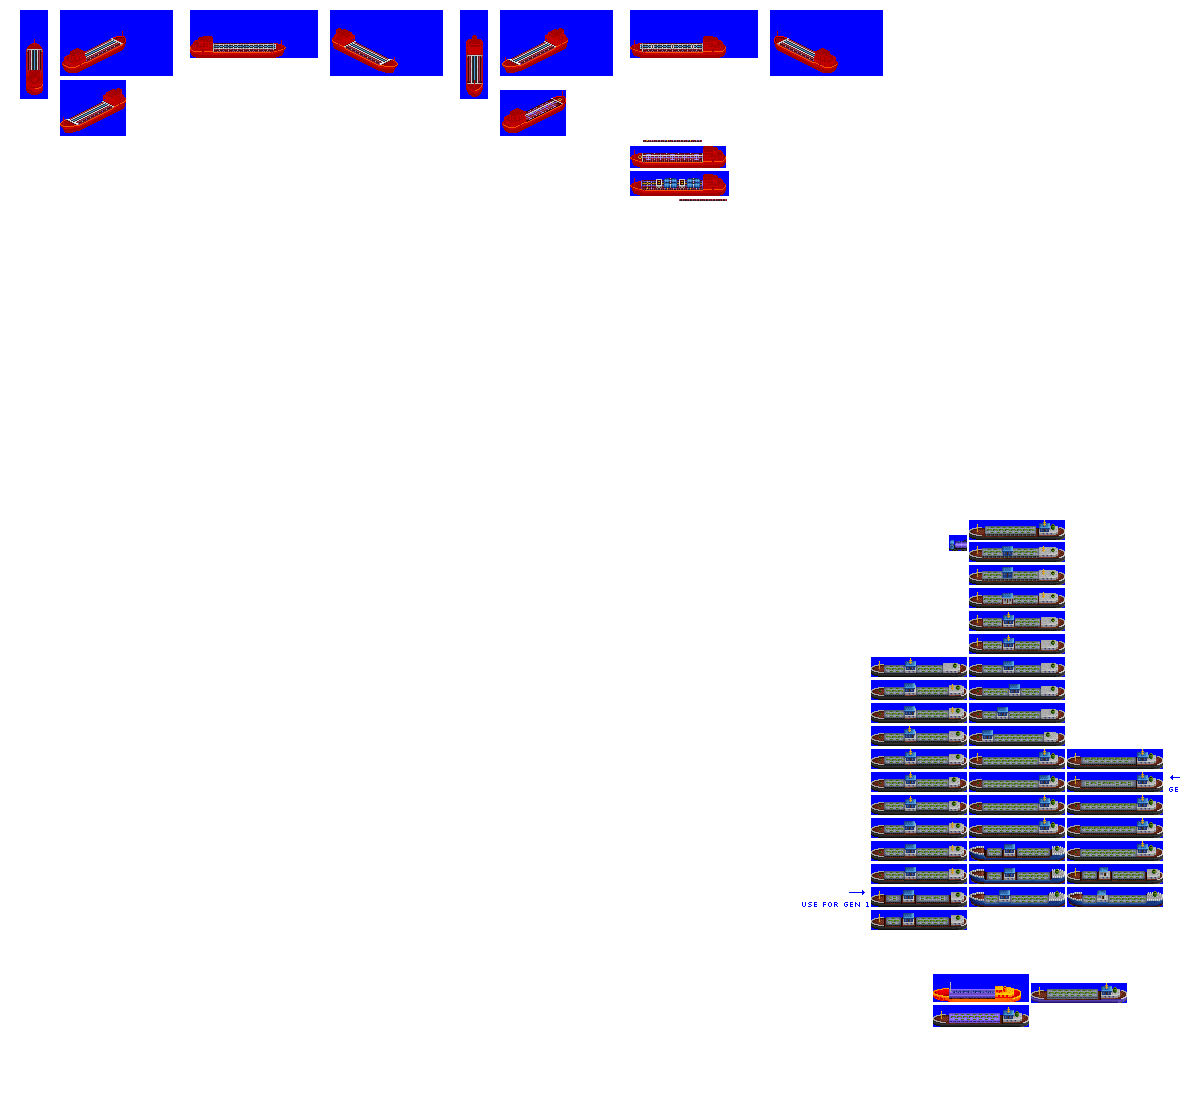
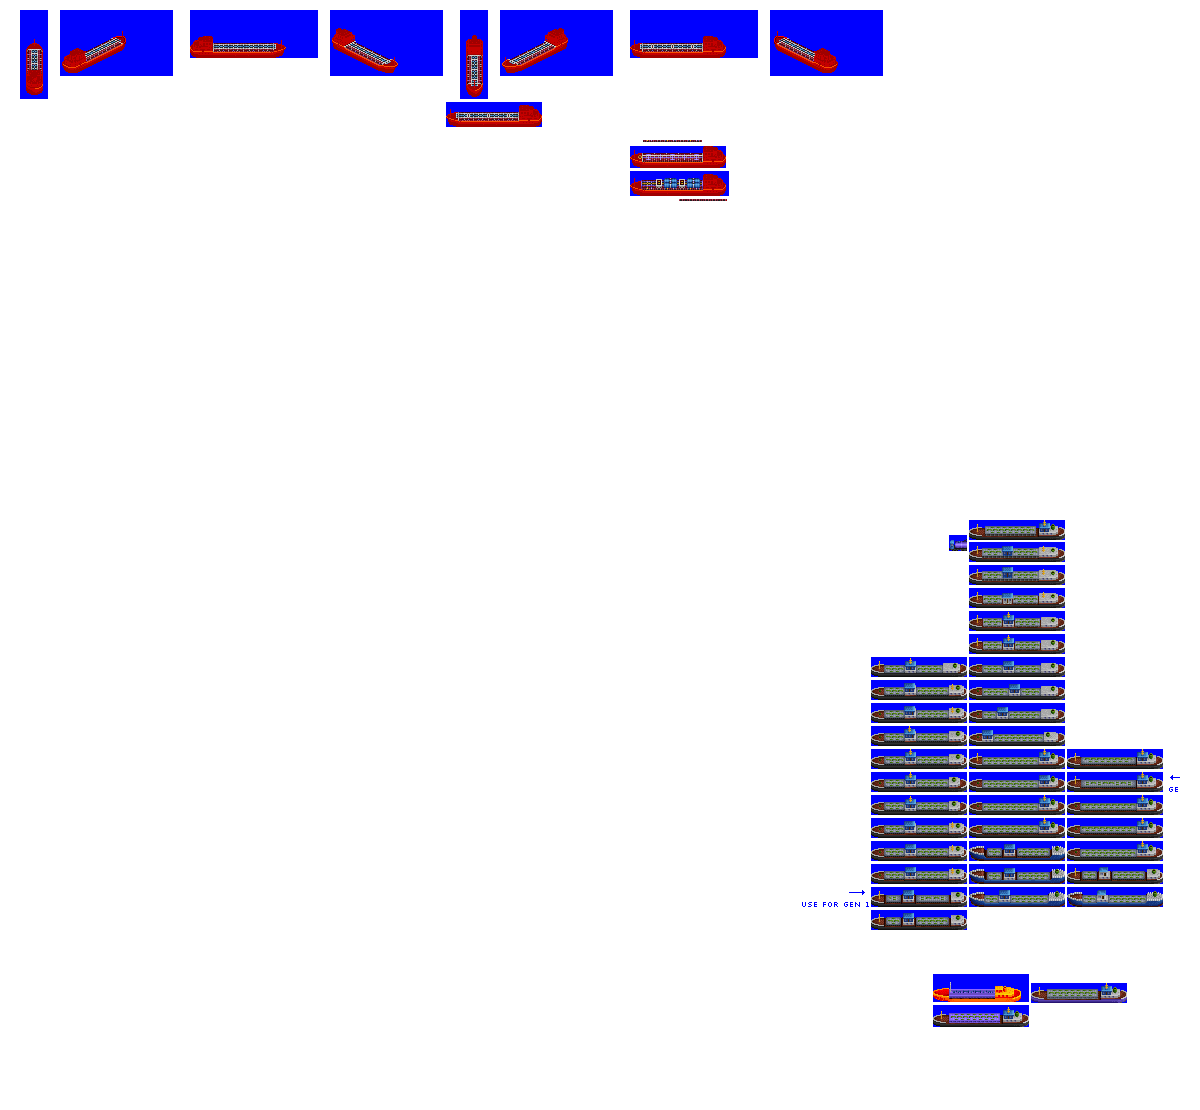
Change: sprites complete for gen 3D product tanker

Changed region(s): [[0.37, 0.0306, 0.4933, 0.1225], [0.0308, 0.0613, 0.1233, 0.1225], [0.6475, 0.0306, 0.6783, 0.0613]]

diff --git a/src/vehicles/product_tanker_ships.py b/src/vehicles/product_tanker_ships.py
@@ -43,7 +43,7 @@ def main():
         hull="ShipHouseRear",
         str_type_info="SMALL_TANKER_COASTAL_INLAND",
         effect_type="EFFECT_SPRITE_DIESEL",
-        sprites_complete=False,
+        sprites_complete=True,
     )
 
     ship = ProductTankerShip(
